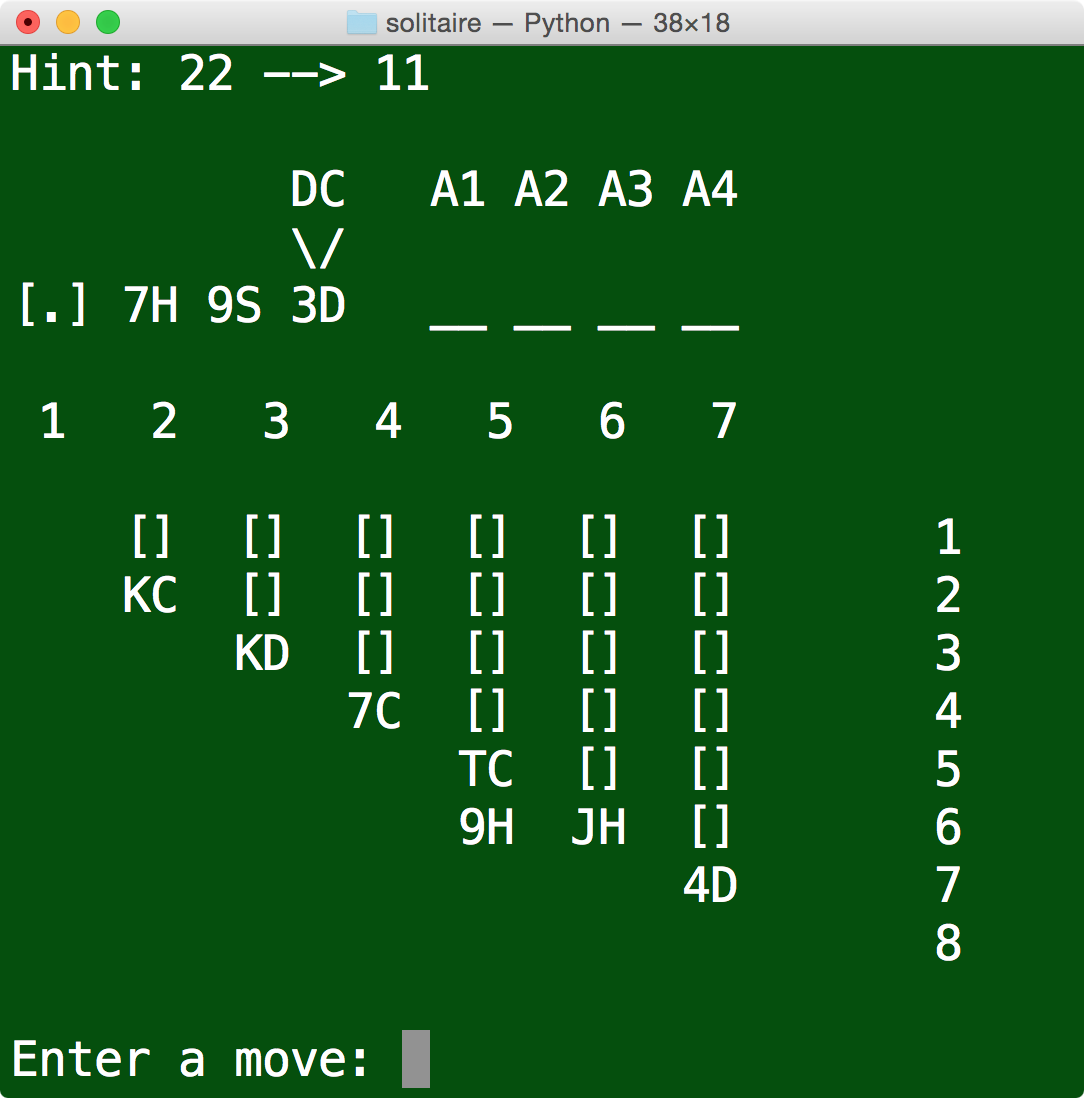
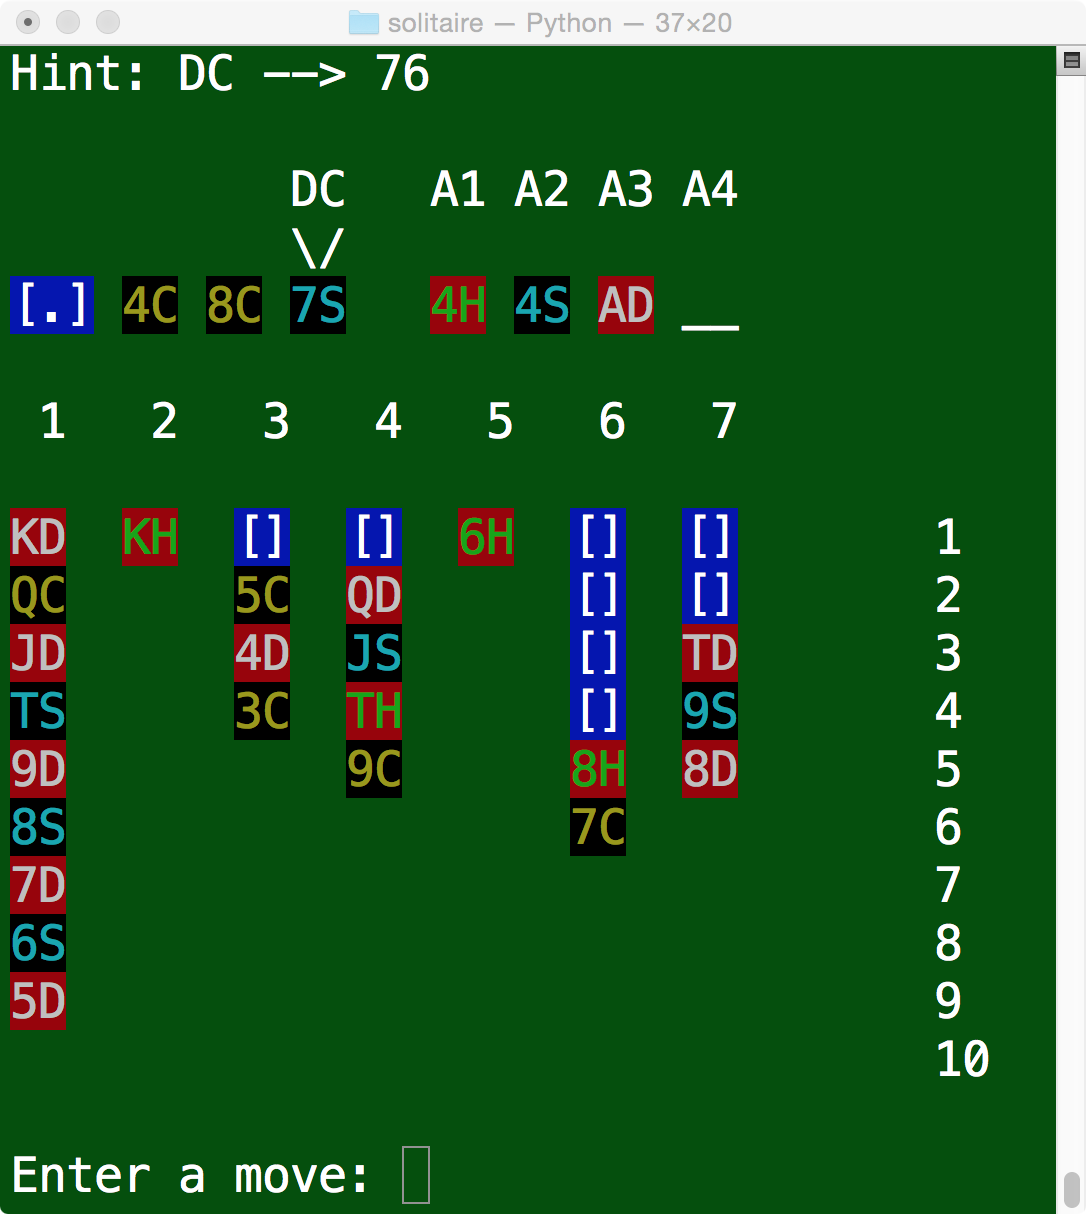
Added color

diff --git a/Solitaire.py b/Solitaire.py
@@ -54,15 +54,15 @@ class Solitaire:
         print "          DC   A1 A2 A3 A4"
         print "          \/"
         if len(self.deck.cards) > 0:
-            sys.stdout.write("[.]") # cards remain
+            sys.stdout.write('\033[44m' + "[.]" + '\033[0m') # cards remain
         else:
-            sys.stdout.write("[ ]") # deck is empty
+            sys.stdout.write('\033[44m' + "[ ]" + '\033[0m') # deck is empty
         sys.stdout.write(" ")
 
         # Print up to three drawn cards
         for i in range(-3, 0):
             if len(self.draw) >= (i * -1): # To print *last three* of the array
-                sys.stdout.write(self.draw[i])
+                self.print_card(self.draw[i])
             else: 
                 sys.stdout.write("  ")
             sys.stdout.write(" ")
@@ -71,7 +71,8 @@ class Solitaire:
         # Print accumulation piles
         for stack in self.stacks:
             if len(stack) > 1:
-                sys.stdout.write(stack[-1]) # show only the top card
+                self.print_card(stack[-1])
+                # sys.stdout.write(stack[-1]) # show only the top card
             else:
                 sys.stdout.write("__")
             sys.stdout.write(" ")
@@ -92,9 +93,10 @@ class Solitaire:
             for col in range(7):
                 if len(self.columns[col]) > row:
                     if (len(self.columns[col]) - (row)) <= self.faceup[col]:
-                        sys.stdout.write(self.columns[col][row])
+                        self.print_card(self.columns[col][row])
+                        # sys.stdout.write('\033[93m' + self.columns[col][row] + '\033[0m')
                     else:
-                        sys.stdout.write("[]") # face down
+                        sys.stdout.write('\033[44m' + "[]" + '\033[0m') # face down
 
                     sys.stdout.write("  ")
                 else:
@@ -102,6 +104,18 @@ class Solitaire:
             sys.stdout.write("     " + str(row)) # number each row
             sys.stdout.write("\n")
         sys.stdout.write("\n")
+
+    # print_card : card -> void
+    # Prints card with color depending on suit
+    def print_card(self, c):
+        if c[1] == "D":
+            sys.stdout.write('\033[37;41m' + c + '\033[0m')
+        elif c[1] == "H":
+            sys.stdout.write('\033[32;41m' + c + '\033[0m')
+        elif c[1] == "S":
+            sys.stdout.write('\033[36;40m' + c + '\033[0m')
+        elif c[1] == "C":
+            sys.stdout.write('\033[33;40m' + c + '\033[0m')
 
     # can_stack_up : card card -> boolean
     # Returns whether c1 can be placed on top of c2 in an accumulation pile
